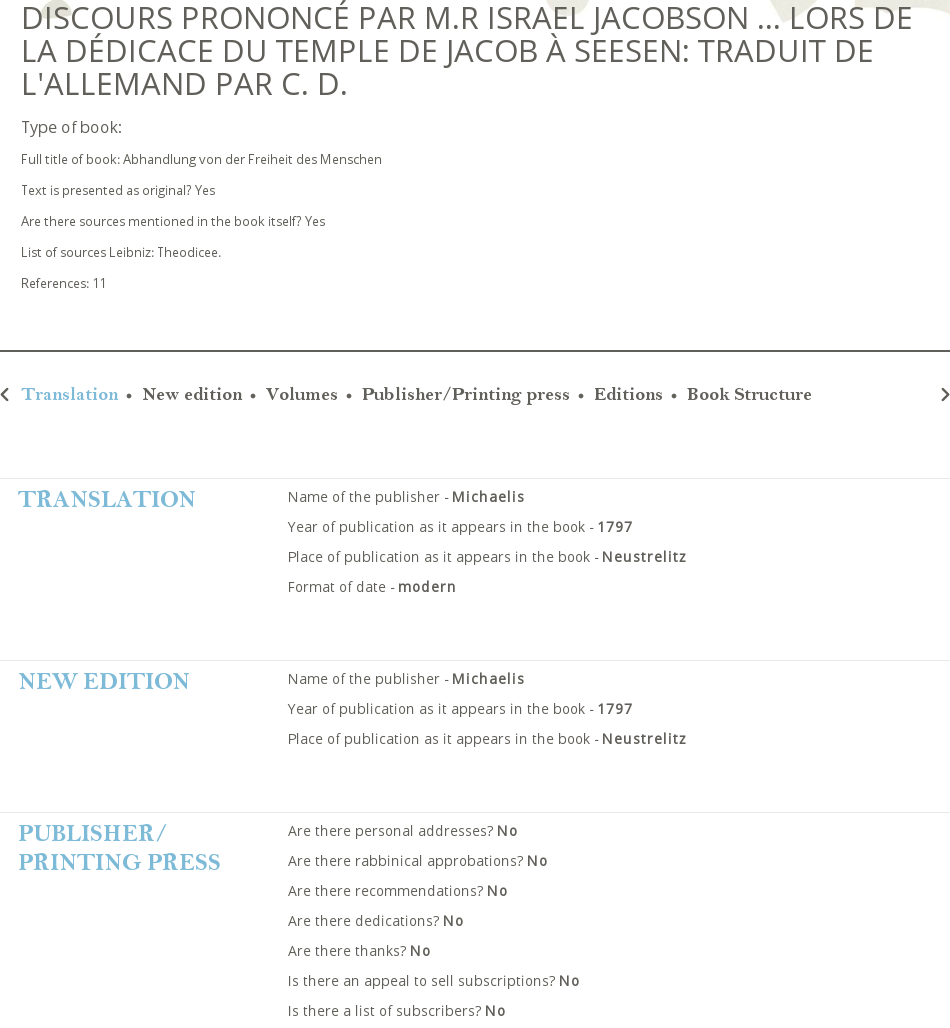
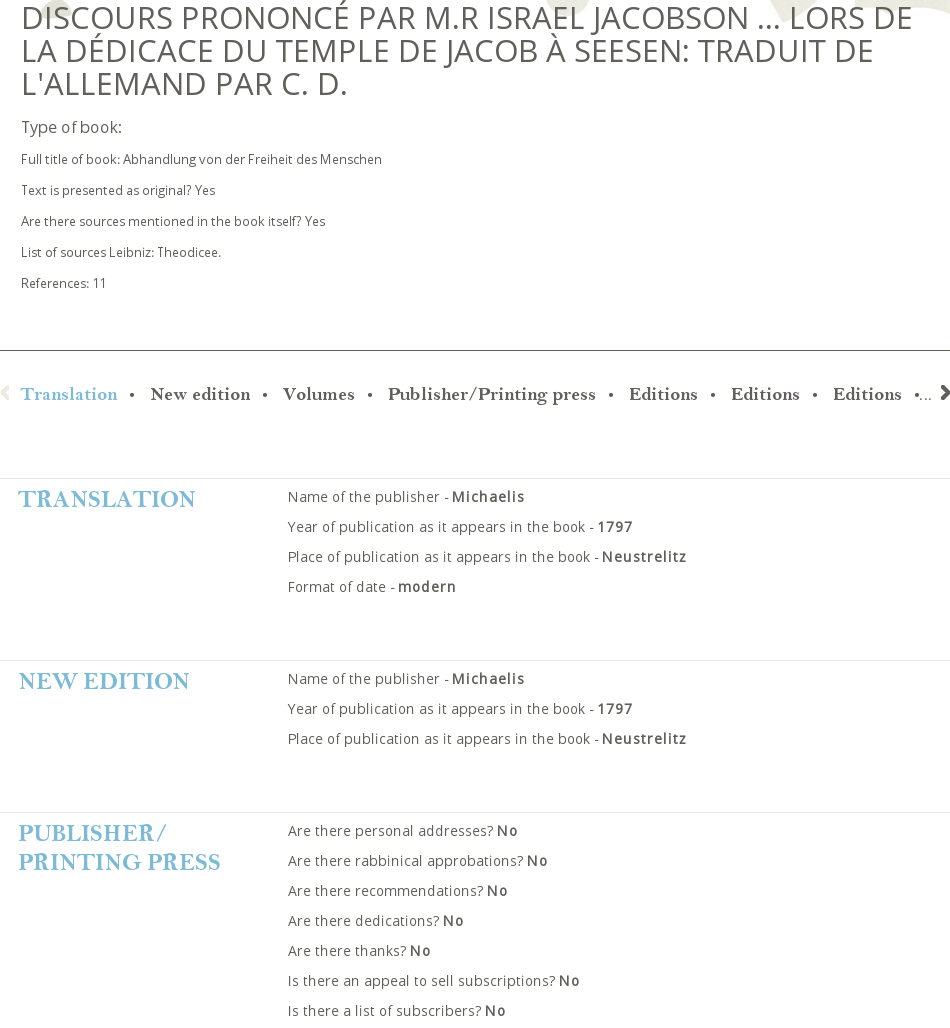
Css fixes & image for test.

diff --git a/jekyll/app/_scss/_book.scss b/jekyll/app/_scss/_book.scss
@@ -29,7 +29,7 @@
 
         padding: 0 21px 51px;
         border-bottom: 1px solid $darkgray;
-        margin-bottom: 31px;
+        margin-bottom: 32px;
 
         .title {
           font-size: 31px;
@@ -73,7 +73,7 @@
 
       #details-navigation {
         font-family: bell_mtbold;
-        letter-spacing: 0.54px;
+        letter-spacing: 0.24px;
         position: relative;
 
         .tabs-frame {
@@ -94,10 +94,10 @@
 
             li {
               display: inline;
-              padding: 0 8px 0 18px;
+              padding: 0 10px 0 20px;
               font-size: 14px;
               background: url("../images/sprites.png") no-repeat;
-              background-position: -315px 5px;
+              background-position: -315px 6px;
 
               &:first-child {
                 background: none;
